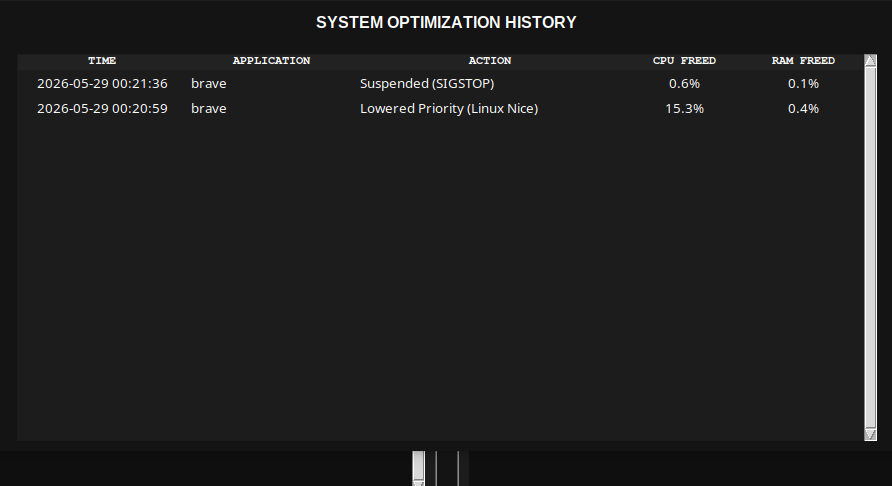
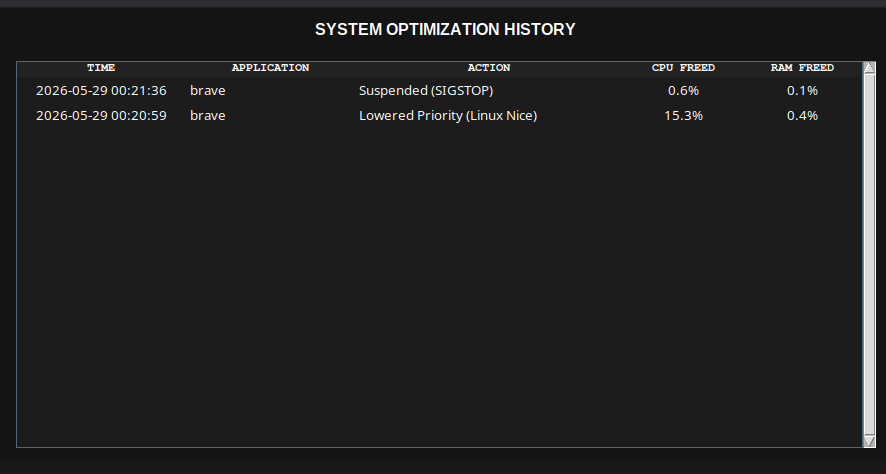
Added images to README.md

diff --git a/backup.md b/backup.md
@@ -1,0 +1,108 @@
+# Smart Resource Monitoring and Auto-Mitigation System
+
+### Project
+**Domain:** Systems Programming & Operating System Utilities  
+**Target Platforms:** Cross-Platform (Automated detection for Linux 🐧 and Windows 🪟)
+
+---
+
+## 📌 Project Overview
+The **Smart Resource Monitoring and Auto-Mitigation System** is an intelligent background utility designed to shift resource management from manual troubleshooting to automated prevention. 
+
+While standard system utilities (like Task Manager or `top`) are purely passive dashboards that display raw numbers, this system acts as an **autonomous control engine**. It continuously evaluates hardware metrics, applies a rule-based heuristic to isolate background "resource hogs," executes non-destructive optimizations or freezes, and records the measurable performance improvements.
+
+### 🎯 Key Highlights
+* **Behavior-Based Logic:** Avoids "dumb" threshold triggers; handles transient CPU spikes gracefully while prioritizing long-term idle RAM leaks.
+* **Cross-Platform Compatibility:** Features a unified, platform-aware codebase that dynamically leverages low-level Linux signals or Windows Win32 APIs.
+* **Measurable Feedback Loop:** Quantifies and logs system resource deltas (Before vs. After) directly into a structured CSV tracking database.
+
+---
+
+## 🧠 System Architecture & Workflow
+
+The system is engineered as a single, modular continuous execution loop divided into three functional phases:
+
+```text
+[ 1. Continuous Monitor ] ──► Computes trailing resource loads (CPU & RAM)
+                                      │
+                               (Threshold Broken?)
+                                      ▼
+[ 2. Heuristic Engine ]   ──► Runs Weighted Scoring Algorithm on PIDs
+                                      │
+                               (Isolates Worst Offender)
+                                      ▼
+[ 3. Platform Mitigator ] ──► Executes Native Trim, Nice, or Suspend Call
+                                      │
+                               (Measures Delta)
+                                      ▼
+                           Logs Performance Delta to CSV
+```
+---
+### 1. The Weighted Scoring Heuristic
+
+To avoid deploying resource-intensive Machine Learning models on a lightweight monitoring tool, the system utilizes a **Rule-Based Weighting Coefficient** to calculate an app's inefficiency profile:
+
+$$\text{Score} = (\text{Process CPU} \times 1.5) + (\text{Process RAM} \times 2.5)$$
+
+* **Why RAM is weighted at 2.5:** Physical memory allocation is "sticky." Background applications (such as idle browser tabs) hoard physical RAM long after a user stops interacting with them.
+* **Why CPU is weighted at 1.5:** CPU utilization is transient. Brief spikes are normal during active compilation, gaming, or rendering; a lower weight protects active applications from being falsely penalized.
+
+---
+
+### 2. Tiered Optimization Strategies
+
+Unlike the binary "End Task" approach of standard task managers which causes lost user work, this system features context-aware, non-destructive mitigation tiers:
+
+| Optimization Mode | Behavior on Linux 🐧 | Behavior on Windows 🪟 |
+| :--- | :--- | :--- |
+| **1. Priority Shift** | Adjusts process scheduling priority to max value (`nice 19`), stepping aside for active user tasks. | Invokes native `SetProcessWorkingSetSize` kernel hooks to flush idle pages out of physical RAM. |
+| **2. Suspend State** | Dispatches a low-level `SIGSTOP` signal, freezing the process thread to 0% CPU usage without closing windows. | *Optimized for Unix environments (Skipped safely with warning).* |
+| **3. Terminate** | Issues a standard platform-agnostic termination sequence. | Issues a standard platform-agnostic termination sequence. |
+---
+## 📂 Project Directory Structure
+```text
+smart-resource-monitor/
+│
+├── data/
+│   └── logs.csv               # Shared Database: Records tracking metrics & deltas
+│
+├── smart_resource_manager.py  # Comprehensive Unified Source Code (Demo Execution File)
+├── requirements.txt           # Project Package Dependencies
+└── README.md                  # System Documentation
+```
+---
+## 🚀 Getting Started & Installation
+## ⚡ Getting Started & Installation
+
+### 1. Prerequisites
+Ensure you have **Python 3.8+** installed on your system.
+
+### 2. Install Dependencies
+Clone or download this repository, navigate to the project directory in your terminal, and install the required process-mapping utility libraries:
+
+```bash
+pip install -r requirements.txt
+```
+### 3. Execution (Demo Guidelines)
+Because the optimization engine interacts with low-level kernel properties (altering priority states, modifying process handles, or transmitting signals), the script must be run with elevated privileges to execute successfully.
+
+#### On Linux:
+```Bash
+sudo python3 smart_resource_manager.py
+```
+#### On Windows:
+Open PowerShell or Command Prompt as an Administrator, then run:
+
+```PowerShell
+python smart_resource_manager.py
+```
+
+### 📊 Performance Tracking Log
+Every successful optimization generates accountability metrics appended to data/logs.csv. The log tracks the explicit structural performance changes over time:
+
+```Code snippet
+Timestamp,App Name,PID,Action Taken,System CPU Before,System CPU After
+2026-05-28 11:24:02,brave,255289,Suspended (SIGSTOP),94.4%,41.2%
+2026-05-28 11:30:15,chrome,140220,Lowered Priority (Linux Nice),78.1%,52.5%
+```
+---

diff --git a/README.md b/README.md
@@ -51,9 +51,9 @@ On Linux, it falls back to maximizing the process's nice value, de-prioritizing 
 
 ## 📸 Screenshots
 ### Live Dashboard
-![Dashboard](https://github.com/VISTRONA/Smart-Resource-Monitoring-and-Auto-Mitigation-System/blob/main/public/screenshots/dashboard.png)
+![Dashboard](public/screenshots/dashboard.png)
 ### History Dashboard
-![History](https://github.com/VISTRONA/Smart-Resource-Monitoring-and-Auto-Mitigation-System/blob/main/public/screenshots/optimization.png)
+![History](public/screenshots/optimization.png)
 
 ## 👨💻 Development Team
 This project was engineered and developed by:
